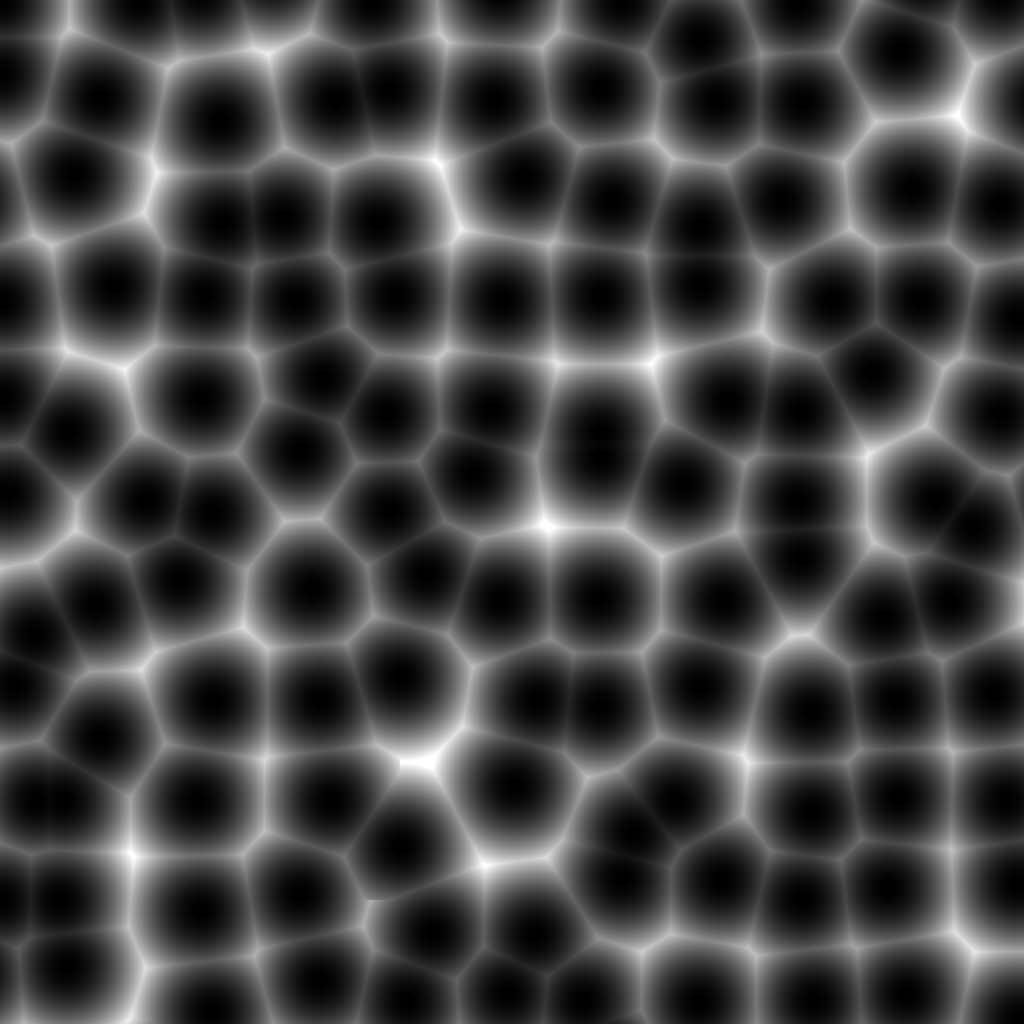
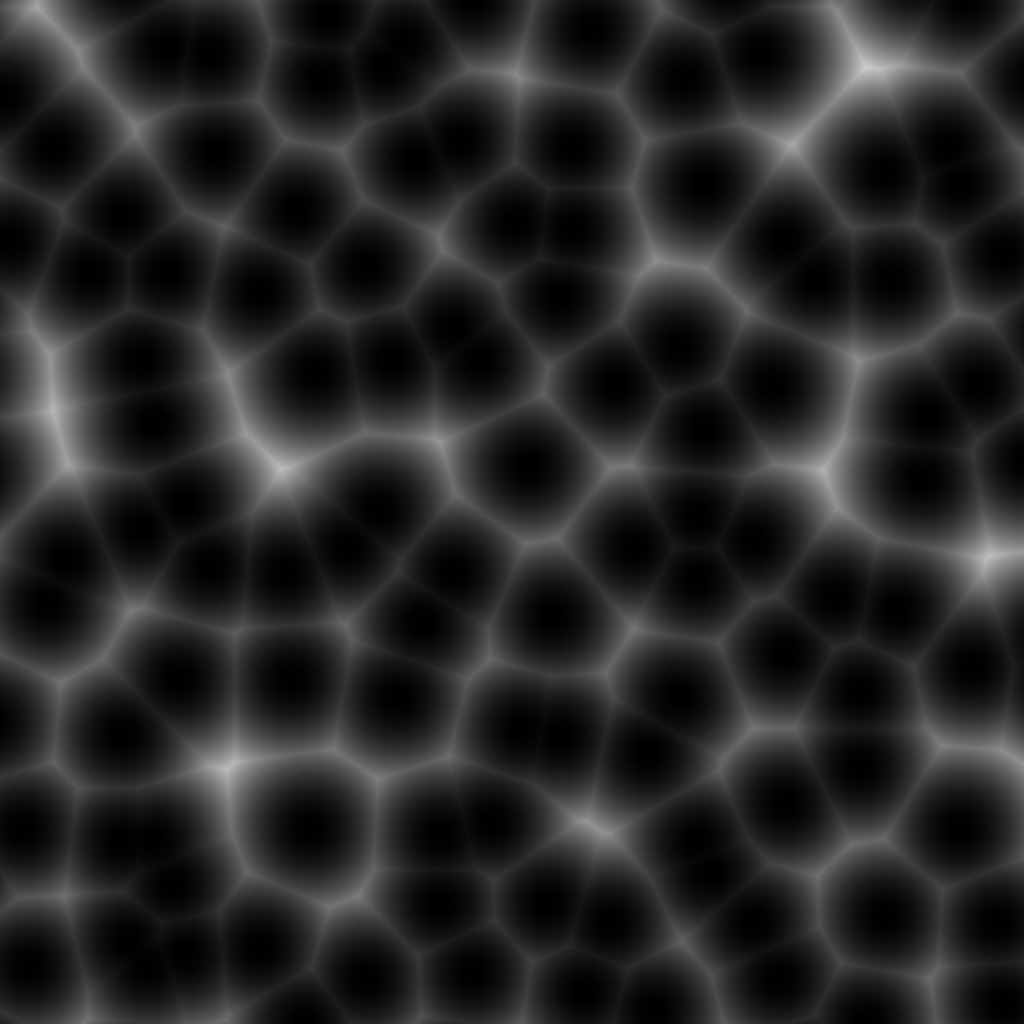
fix cell noise kernels, use uniform hashing to generate better feature points

diff --git a/sources/noise/cell.swift b/sources/noise/cell.swift
@@ -9,7 +9,7 @@ struct CellNoise2D:Noise
     public
     init(amplitude:Double, frequency:Double, seed:Int = 0)
     {
-        self.amplitude = 2.squareRoot() * amplitude
+        self.amplitude = amplitude * 1/2.squareRoot()
         self.frequency = frequency
         self.permutation_table = PermutationTable(seed: seed)
     }
@@ -19,31 +19,15 @@ struct CellNoise2D:Noise
     {
         let hash:Int = self.permutation_table.hash(generating_point.a, generating_point.b)
         // hash is within 0 ... 255, take it to 0 ... 0.5
-        let length:Double = Double(hash) * 0.5/255,
-            diagonal:Double = length * (1 / 2.squareRoot())
 
-        let (dpx, dpy):(Double, Double)
-        switch hash & 0b0111
-        {
-        case 0:
-            (dpx, dpy) = ( diagonal,  diagonal)
-        case 1:
-            (dpx, dpy) = (-diagonal,  diagonal)
-        case 2:
-            (dpx, dpy) = (-diagonal, -diagonal)
-        case 3:
-            (dpx, dpy) = ( diagonal, -diagonal)
-        case 4:
-            (dpx, dpy) = ( length, 0)
-        case 5:
-            (dpx, dpy) = (0,  length)
-        case 6:
-            (dpx, dpy) = (-length, 0)
-        case 7:
-            (dpx, dpy) = ( 0, -length)
-        default:
-            fatalError("unreachable")
-        }
+        // Notice that we have 256 possible hashes, and therefore 8 bits of entropy,
+        // to be divided up between 2 axes. We can assign 4 bits to the x and y
+        // axes each (16 levels each)
+
+        //          0b XXXX YYYY
+
+        let dpx:Double = (Double(hash >> 4         ) - 15/2) * 1/16,
+            dpy:Double = (Double(hash      & 0b1111) - 15/2) * 1/16
 
         let dx:Double = Double(generating_point.a) + dpx - sample_point.x,
             dy:Double = Double(generating_point.b) + dpy - sample_point.y
@@ -60,7 +44,7 @@ struct CellNoise2D:Noise
 
         // determine kernel
 
-        // The control points do not live within the grid cells, rather they float
+        // The feature points do not live within the grid cells, rather they float
         // around the *corners* of the grid cells (the ‘O’s in the diagram).
         // The grid cell that the sample point has been binned into is shaded.
 
@@ -73,28 +57,29 @@ struct CellNoise2D:Noise
         //          |     |      |     |
         //          +------------------+
 
-        // The bin itself is divided into quadrants to classify the four corners as
-        // “near” and “far” points. We call these points the *generating points*.
+        // The bin itself is divided into quadrants to classify the four corners
+        // as “near” and “far” points. We call these points the *generating points*.
         // The sample point (example) has been marked with an ‘*’.
 
-        //          O ------- far
+        //          A ------- far
         //          |    |    |
         //          |----+----|
         //          |  * |    |
-        //       near ------- O
+        //       near ------- A
 
-        // The actual control points never spawn more than 0.5 normalized units
-        // away from the near and far points, and their cross-analogues. Therefore,
-        // the quadrants also provide a means of early exit, since if a sample is
-        // closer to a control point than the quadrant dividers, it is impossible
-        // for the sample to be closer to the control point that lives on the
-        // other side of the divider.
+        // The actual feature points never spawn outside of the unit square surrounding
+        // their generating points. Therefore, the boundaries of the generating
+        // squares serve as a useful means of early exit — if the square is farther
+        // away than a point already found, then there is no point checking that
+        // square since it cannot produce a feature point closer than we have already
+        // found.
 
         let quadrant:(x:Bool, y:Bool) = (offset.x > 0.5, offset.y > 0.5),
             near:(a:Int, b:Int) = (bin.a + (quadrant.x ? 1 : 0), bin.b + (quadrant.y ? 1 : 0)),
             far:(a:Int, b:Int)  = (bin.a + (quadrant.x ? 0 : 1), bin.b + (quadrant.y ? 0 : 1))
 
-        let divider_distance:(x:Double, y:Double) = ((offset.x - 0.5) * (offset.x - 0.5), (offset.y - 0.5) * (offset.y - 0.5))
+        let nearpoint_disp:(x:Double, y:Double) = (abs(offset.x - (quadrant.x ? 1 : 0)),
+                                                   abs(offset.y - (quadrant.y ? 1 : 0)))
 
         var r2_min:Double = self.distance(from: sample, generating_point: near)
 
@@ -109,19 +94,82 @@ struct CellNoise2D:Noise
             }
         }
 
-        if divider_distance.x < r2_min
+        // A points
+        if (0.5 - nearpoint_disp.y) * (0.5 - nearpoint_disp.y) < r2_min
         {
-            test(generating_point: (far.a, near.b)) // near point horizontal
+            test(generating_point: (near.a, far.b))
         }
 
-        if divider_distance.y < r2_min
+        if (0.5 - nearpoint_disp.x) * (0.5 - nearpoint_disp.x) < r2_min
         {
-            test(generating_point: (near.a, far.b)) // near point vertical
+            test(generating_point: (far.a, near.b))
         }
 
-        if divider_distance.x < r2_min && divider_distance.y < r2_min
+        // far point
+        if (0.5 - nearpoint_disp.x) * (0.5 - nearpoint_disp.x) + (0.5 - nearpoint_disp.y) * (0.5 - nearpoint_disp.y) < r2_min
         {
             test(generating_point: far)
+        }
+
+        // This is the part where shit hits the fan. (`inner` and `outer` are never
+        // sampled directly, they are used for calculating the coordinates of the
+        // generating point.)
+
+        //          +-------- D ------- E ----- outer
+        //          |    |    |    |    |    |    |
+        //          |----+----|----+----|----+----|
+        //          |    |    |    |    |    |    |
+        //          C ------- A —————— far ------ E
+        //          |    |    |    |    |    |    |
+        //          |----+----|----+----|----+----|
+        //          |    |    |  * |    |    |    |
+        //          B ----- near —————— A ------- D
+        //          |    |    |    |    |    |    |
+        //          |----+----|----+----|----+----|
+        //          |    |    |    |    |    |    |
+        //        inner ----- B ------- C --------+
+
+        let inner:(a:Int, b:Int) = (bin.a + (quadrant.x ?  2 : -1), bin.b + (quadrant.y ?  2 : -1)),
+            outer:(a:Int, b:Int) = (bin.a + (quadrant.x ? -1 :  2), bin.b + (quadrant.y ? -1 :  2))
+
+        // B points
+        if (nearpoint_disp.x + 0.5) * (nearpoint_disp.x + 0.5) < r2_min
+        {
+            test(generating_point: (inner.a, near.b))
+        }
+        if (nearpoint_disp.y + 0.5) * (nearpoint_disp.y + 0.5) < r2_min
+        {
+            test(generating_point: (near.a, inner.b))
+        }
+
+        // C points
+        if (nearpoint_disp.x + 0.5) * (nearpoint_disp.x + 0.5) + (0.5 - nearpoint_disp.y) * (0.5 - nearpoint_disp.y) < r2_min
+        {
+            test(generating_point: (inner.a, far.b))
+        }
+        if (nearpoint_disp.y + 0.5) * (nearpoint_disp.y + 0.5) + (0.5 - nearpoint_disp.x) * (0.5 - nearpoint_disp.x) < r2_min
+        {
+            test(generating_point: (far.a, inner.b))
+        }
+
+        // D points
+        if (1.5 - nearpoint_disp.y) * (1.5 - nearpoint_disp.y) < r2_min
+        {
+            test(generating_point: (near.a, outer.b))
+        }
+        if (1.5 - nearpoint_disp.x) * (1.5 - nearpoint_disp.x) < r2_min
+        {
+            test(generating_point: (outer.a, near.b))
+        }
+
+        // E points
+        if (0.5 - nearpoint_disp.x) * (0.5 - nearpoint_disp.x) + (1.5 - nearpoint_disp.y) * (1.5 - nearpoint_disp.y) < r2_min
+        {
+            test(generating_point: (far.a, outer.b))
+        }
+        if (0.5 - nearpoint_disp.y) * (0.5 - nearpoint_disp.y) + (1.5 - nearpoint_disp.x) * (1.5 - nearpoint_disp.x) < r2_min
+        {
+            test(generating_point: (outer.a, far.b))
         }
 
         return self.amplitude * r2_min
@@ -178,14 +226,14 @@ struct CellNoise3D:Noise
         // Notice that we have 256 possible hashes, and therefore 8 bits of entropy,
         // to be divided up between three axes. We can assign 3 bits to the x and
         // y axes each (8 levels each), and 2 bits to the z axis (4 levels). To
-        // compensate for the lack of z resolution, we bump up every other control
+        // compensate for the lack of z resolution, we bump up every other feature
         // point by half a level.
 
         //          0b XXX YYY ZZ
 
-        let dpx:Double = (Double(hash >> 5                                         ) - 3.5) * 0.25,
-            dpy:Double = (Double(hash >> 2 & 0b0111                                ) - 3.5) * 0.25,
-            dpz:Double = (Double(hash << 1 & 0b0111 + ((hash >> 5 ^ hash >> 2) & 1)) - 3.5) * 0.25
+        let dpx:Double = (Double(hash >> 5                                         ) - 7/2) * 1/8,
+            dpy:Double = (Double(hash >> 2 & 0b0111                                ) - 7/2) * 1/8,
+            dpz:Double = (Double(hash << 1 & 0b0111 + ((hash >> 5 ^ hash >> 2) & 1)) - 7/2) * 1/8
 
         let dx:Double = Double(generating_point.a) + dpx - sample_point.x,
             dy:Double = Double(generating_point.b) + dpy - sample_point.y,
@@ -196,80 +244,6 @@ struct CellNoise3D:Noise
     public
     func evaluate(_ x:Double, _ y:Double) -> Double
     {
-        /*
-        let sample:(x:Double, y:Double) = (x * self.frequency, y * self.frequency)
-
-        let bin:(a:Int, b:Int)          = (floor(sample.x), floor(sample.y)),
-            offset:(x:Double, y:Double) = (sample.x - Double(bin.a), sample.y - Double(bin.b))
-
-        // determine kernel
-
-        // The control points do not live within the grid cells, rather they float
-        // around the *corners* of the grid cells (the ‘O’s in the diagram).
-        // The grid cell that the sample point has been binned into is shaded.
-
-        //               xb   xb + 1
-        //          +------------------+
-        //          |     |      |     |
-        //       yb |---- O//////O ----|
-        //          |     |//////|     |
-        //   yb + 1 |---- O//////O ----|
-        //          |     |      |     |
-        //          +------------------+
-
-        // The bin itself is divided into quadrants to classify the four corners as
-        // “near” and “far” points. We call these points the *generating points*.
-        // The sample point (example) has been marked with an ‘*’.
-
-        //          O ------- far
-        //          |    |    |
-        //          |----+----|
-        //          |  * |    |
-        //       near ------- O
-
-        // The actual control points never spawn more than 0.5 normalized units
-        // away from the near and far points, and their cross-analogues. Therefore,
-        // the quadrants also provide a means of early exit, since if a sample is
-        // closer to a control point than the quadrant dividers, it is impossible
-        // for the sample to be closer to the control point that lives on the
-        // other side of the divider.
-
-        let quadrant:(x:Bool, y:Bool) = (offset.x > 0.5, offset.y > 0.5),
-            near:(a:Int, b:Int) = (bin.a + (quadrant.x ? 1 : 0), bin.b + (quadrant.y ? 1 : 0)),
-            far:(a:Int, b:Int)  = (bin.a + (quadrant.x ? 0 : 1), bin.b + (quadrant.y ? 0 : 1))
-
-        let divider_distance:(x:Double, y:Double) = ((offset.x - 0.5) * (offset.x - 0.5), (offset.y - 0.5) * (offset.y - 0.5))
-
-        var r2_min:Double = self.distance(from: sample, generating_point: near)
-
-        @inline(__always)
-        func test(generating_point:(a:Int, b:Int))
-        {
-            let r2:Double = self.distance(from: sample, generating_point: generating_point)
-
-            if r2 < r2_min
-            {
-                r2_min = r2
-            }
-        }
-
-        if divider_distance.x < r2_min
-        {
-            test(generating_point: (far.a, near.b)) // near point horizontal
-        }
-
-        if divider_distance.y < r2_min
-        {
-            test(generating_point: (near.a, far.b)) // near point vertical
-        }
-
-        if divider_distance.x < r2_min && divider_distance.y < r2_min
-        {
-            test(generating_point: far)
-        }
-
-        return self.amplitude * r2_min
-        */
         return 0
     }
 
